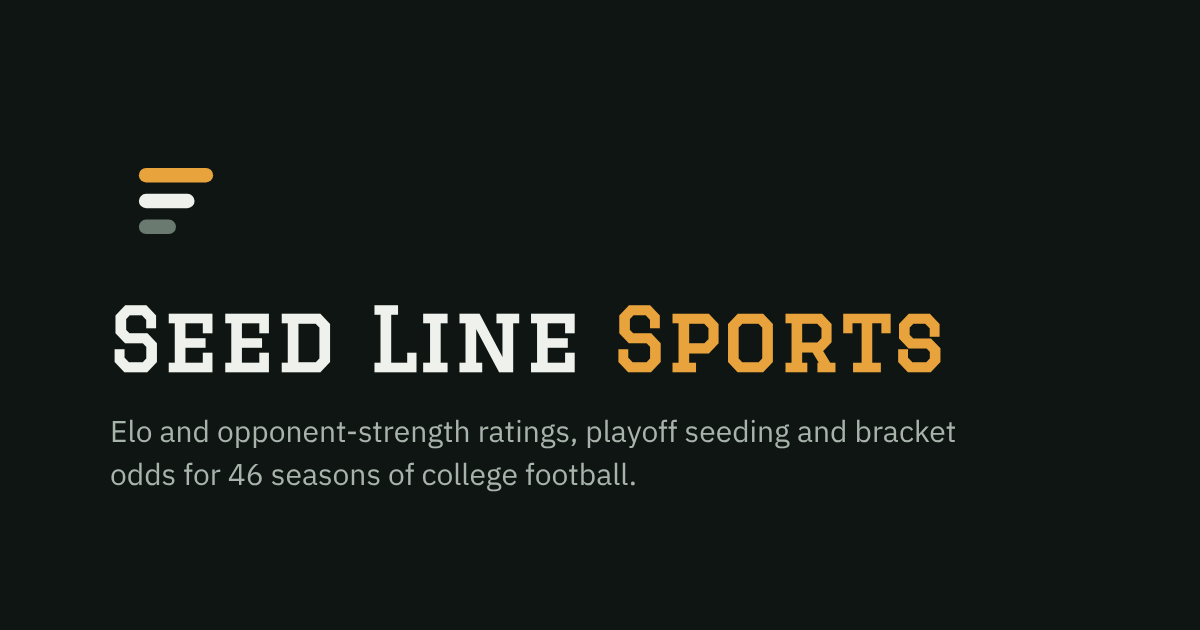
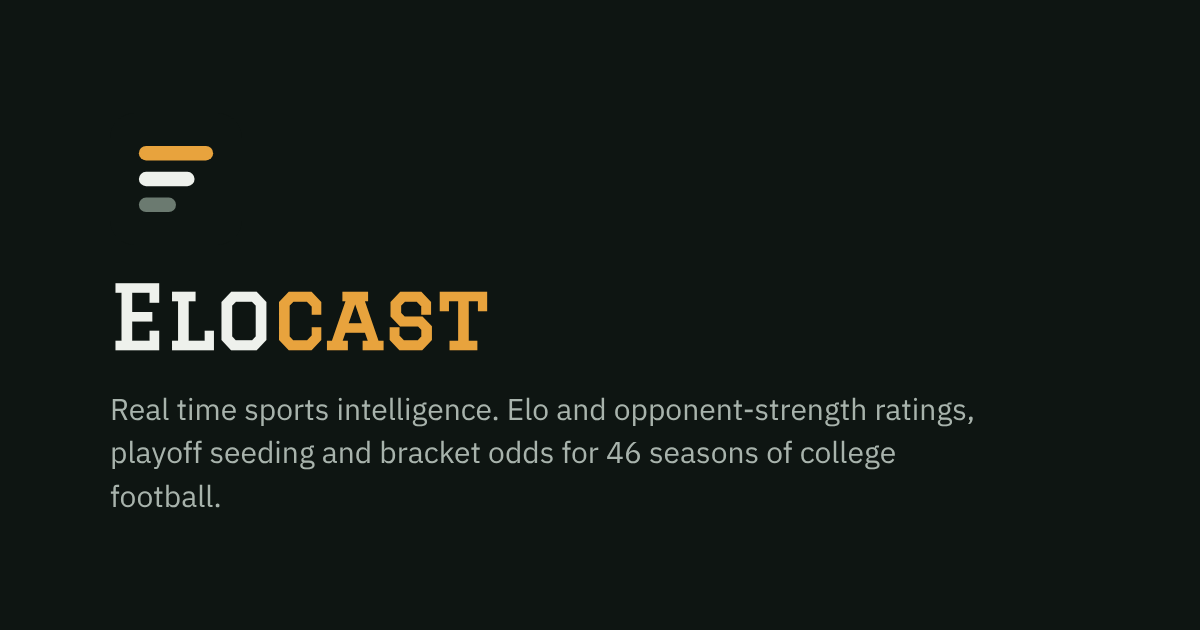
Rename the site to Elocast
The site was called Seed Line Sports. Austin settled on "Elocast", with the
tagline "Real time sports intelligence", so every place a reader sees the
name now says Elocast.

The masthead wordmark splits Elo|cast the way Seed Line|Sports split, so the
amber half still lands on the second word and no CSS changes. BASE_TITLE
reads document.title, so every per-page title follows the <title> tag with
no further edit.

The tagline goes in the shared og:description and on the link-preview card,
not beside the masthead: the header convention here is the title and the
coverage meta only, no description paragraph.

Meta tags are duplicated in index.html and ui/dashboard_shell.html on
purpose (the root is the share target, and a crawler never follows its meta
refresh), and tests/test_brand_assets.py holds the two sets identical.
og-image.png is regenerated from the mark by scripts/build_brand_assets.py
and committed, because the deploy has no browser.

The logo mark itself is unchanged -- still the placeholder, pending the real
artwork -- so only its aria-label moved. The GitHub repository and the Pages
URL are deliberately untouched: renaming either breaks the live link.

Claude-Session: https://claude.ai/code/session_019VDe2GKCyhdhQnr6c8vCjv

Changed region(s): [[0.0925, 0.6333, 0.8017, 0.8143], [0.0925, 0.4524, 0.8017, 0.6032], [0.0925, 0.2111, 0.185, 0.3921]]

diff --git a/ui/dashboard_shell.html b/ui/dashboard_shell.html
@@ -3,10 +3,10 @@
 <head>
 <meta charset="UTF-8">
 <meta name="viewport" content="width=device-width, initial-scale=1.0">
-<meta name="description" content="Seed Line Sports rates every FBS team with Elo and an opponent-strength coefficient, seeds the 12-team College Football Playoff and simulates the bracket.">
-<meta property="og:site_name" content="Seed Line Sports">
-<meta property="og:title" content="Seed Line Sports">
-<meta property="og:description" content="Ratings, playoff seeding and bracket odds for 46 seasons of college football.">
+<meta name="description" content="Elocast rates every FBS team with Elo and an opponent-strength coefficient, seeds the 12-team College Football Playoff and simulates the bracket.">
+<meta property="og:site_name" content="Elocast">
+<meta property="og:title" content="Elocast">
+<meta property="og:description" content="Real time sports intelligence. Ratings, playoff seeding and bracket odds for 46 seasons of college football.">
 <meta property="og:type" content="website">
 <meta property="og:url" content="https://ak038819-sudo.github.io/College-Football-Coefficient/">
 <!-- og:image must be ABSOLUTE: the crawlers that read it do not resolve a
@@ -18,14 +18,14 @@
 <meta property="og:image" content="https://ak038819-sudo.github.io/College-Football-Coefficient/ui/brand/og-image.png">
 <meta property="og:image:width" content="1200">
 <meta property="og:image:height" content="630">
-<meta property="og:image:alt" content="Seed Line Sports: Elo and opponent-strength ratings, playoff seeding and bracket odds.">
+<meta property="og:image:alt" content="Elocast: Elo and opponent-strength ratings, playoff seeding and bracket odds.">
 <meta name="twitter:card" content="summary_large_image">
 <meta name="twitter:image" content="https://ak038819-sudo.github.io/College-Football-Coefficient/ui/brand/og-image.png">
 <meta name="theme-color" content="#0e1512">
 <link rel="icon" href="brand/mark.svg" type="image/svg+xml">
 <link rel="icon" href="brand/icon-32.png" sizes="32x32" type="image/png">
 <link rel="apple-touch-icon" href="brand/apple-touch-icon.png">
-<title>Seed Line Sports</title>
+<title>Elocast</title>
 <link rel="preconnect" href="https://fonts.googleapis.com">
 <link rel="preconnect" href="https://fonts.gstatic.com" crossorigin>
 <link href="https://fonts.googleapis.com/css2?family=Graduate&family=Roboto+Slab:wght@600;700;800&family=Oswald:wght@400;500;600;700&family=IBM+Plex+Sans:wght@400;500;600&family=IBM+Plex+Mono:wght@500;600&display=swap" rel="stylesheet">
@@ -1132,7 +1132,7 @@
 
   <header class="top">
     <div class="title-block">
-      <h1><img class="masthead-mark" src="brand/mark.svg" alt="" width="40" height="40">Seed Line <span>Sports</span></h1>
+      <h1><img class="masthead-mark" src="brand/mark.svg" alt="" width="40" height="40">Elo<span>cast</span></h1>
       <p class="release-label">v0.1 · People and Places of the Game</p>
     </div>
     <nav class="header-links" aria-label="About the data">

diff --git a/index.html b/index.html
@@ -7,25 +7,25 @@
      actually paste, and a crawler reading it never follows the refresh to the
      dashboard, so the preview tags have to live HERE as well as in
      ui/dashboard_shell.html. The two sets must say the same thing. -->
-<meta name="description" content="Seed Line Sports rates every FBS team with Elo and an opponent-strength coefficient, seeds the 12-team College Football Playoff and simulates the bracket.">
-<meta property="og:site_name" content="Seed Line Sports">
-<meta property="og:title" content="Seed Line Sports">
-<meta property="og:description" content="Ratings, playoff seeding and bracket odds for 46 seasons of college football.">
+<meta name="description" content="Elocast rates every FBS team with Elo and an opponent-strength coefficient, seeds the 12-team College Football Playoff and simulates the bracket.">
+<meta property="og:site_name" content="Elocast">
+<meta property="og:title" content="Elocast">
+<meta property="og:description" content="Real time sports intelligence. Ratings, playoff seeding and bracket odds for 46 seasons of college football.">
 <meta property="og:type" content="website">
 <meta property="og:url" content="https://ak038819-sudo.github.io/College-Football-Coefficient/">
 <meta property="og:image" content="https://ak038819-sudo.github.io/College-Football-Coefficient/ui/brand/og-image.png">
 <meta property="og:image:width" content="1200">
 <meta property="og:image:height" content="630">
-<meta property="og:image:alt" content="Seed Line Sports: Elo and opponent-strength ratings, playoff seeding and bracket odds.">
+<meta property="og:image:alt" content="Elocast: Elo and opponent-strength ratings, playoff seeding and bracket odds.">
 <meta name="twitter:card" content="summary_large_image">
 <meta name="twitter:image" content="https://ak038819-sudo.github.io/College-Football-Coefficient/ui/brand/og-image.png">
 <meta name="theme-color" content="#0e1512">
 <link rel="icon" href="ui/brand/mark.svg" type="image/svg+xml">
 <link rel="icon" href="ui/brand/icon-32.png" sizes="32x32" type="image/png">
 <link rel="apple-touch-icon" href="ui/brand/apple-touch-icon.png">
-<title>Seed Line Sports</title>
+<title>Elocast</title>
 </head>
 <body>
-<p>Redirecting to the <a href="ui/dashboard.html">Seed Line Sports dashboard</a>...</p>
+<p>Redirecting to the <a href="ui/dashboard.html">Elocast dashboard</a>...</p>
 </body>
 </html>

diff --git a/scripts/build_brand_assets.py b/scripts/build_brand_assets.py
@@ -49,9 +49,9 @@ SQUARE = """
 OG = """
 <div class="card">
   <div class="mark">{mark}</div>
-  <h1>Seed Line <span>Sports</span></h1>
-  <p>Elo and opponent-strength ratings, playoff seeding and bracket odds
-     for 46 seasons of college football.</p>
+  <h1>Elo<span>cast</span></h1>
+  <p>Real time sports intelligence. Elo and opponent-strength ratings,
+     playoff seeding and bracket odds for 46 seasons of college football.</p>
 </div>
 """
 

diff --git a/README.md b/README.md
@@ -2,7 +2,7 @@
 
 **Predictive rating models, playoff selection, and Monte Carlo simulation for 46 seasons of FBS college football.**
 
-🔗 **Live dashboard:** [Seed Line Sports](https://ak038819-sudo.github.io/College-Football-Coefficient/)
+🔗 **Live dashboard:** [Elocast](https://ak038819-sudo.github.io/College-Football-Coefficient/)
 
 This project rebuilds college football's postseason around objective ratings instead of polls. It ingests game data from the College Football Data (CFBD) API, rates every team with Elo and an opponent-strength model, selects and seeds the real 12-team College Football Playoff field, simulates the bracket, and publishes everything as an interactive static dashboard. A test suite gates every deploy.
 
